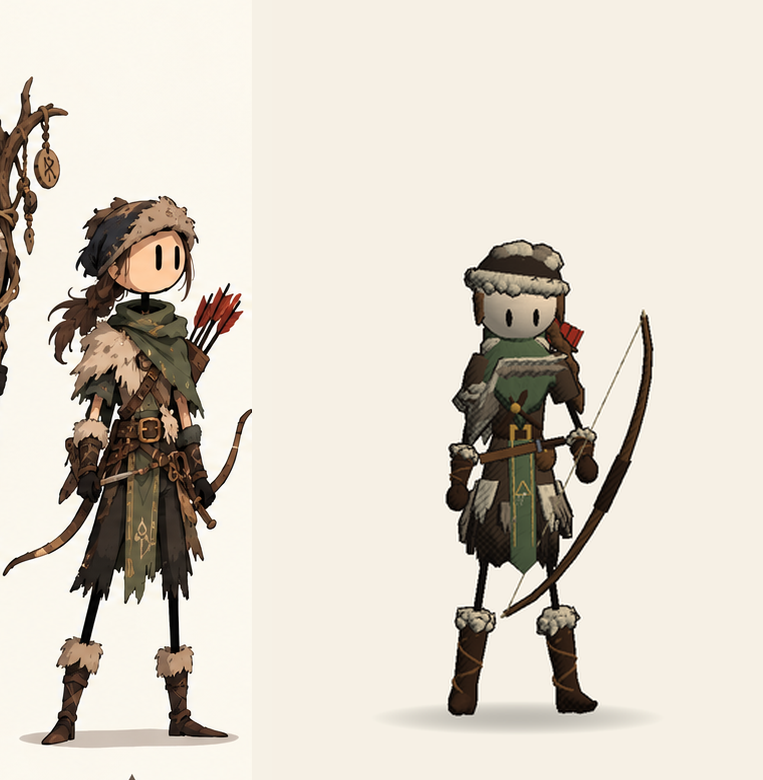
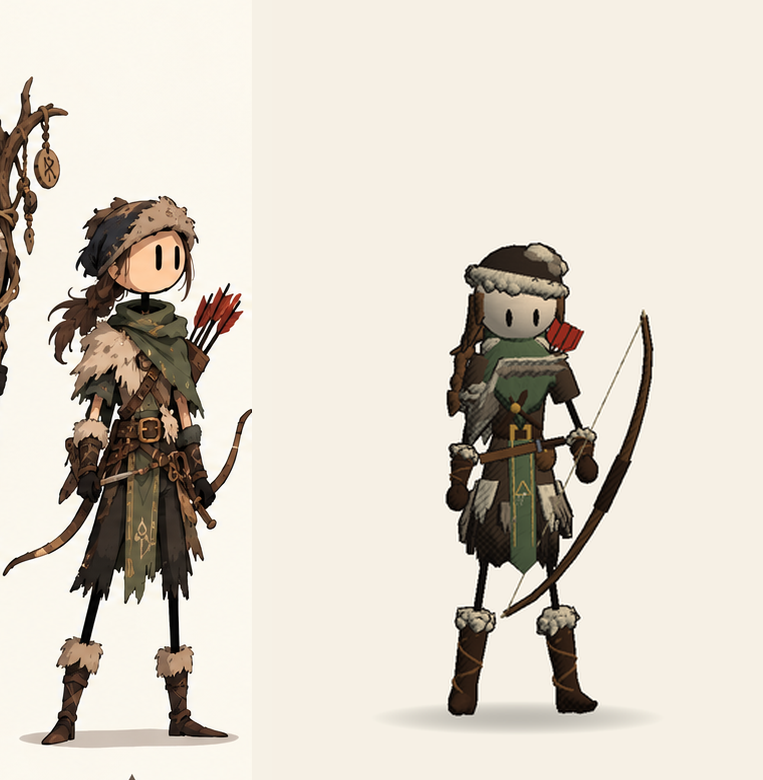
Scout pass 3: askew cap, braid and loose locks over the right shoulder
The fur on the cap gathers on one side so the dark cloth shows, the cap
sits more askew, the low braid swings out over the right shoulder with
loose wavy locks on the same side. CHARACTERS.md records pass 3 and what
pass 4 should tackle.

Claude-Session: https://claude.ai/code/session_01SCdejJ1UF8RUxAkkFhZXGU

Changed region(s): [[0.5727, 0.3077, 0.7837, 0.5538]]

diff --git a/OdinsCoin/Assets/Scripts/Characters/Garments.cs b/OdinsCoin/Assets/Scripts/Characters/Garments.cs
@@ -1061,14 +1061,14 @@ namespace OdinsCoin
             var f = d.fit;
             float r = f.headR, cy = HeroModel.HeadCentre(f), s = d.S;
             float brim = cy + 0.2f * r;
-            var tilt = Quaternion.Euler(-6f, 0f, 8f);
+            var tilt = Quaternion.Euler(-6f, 0f, 12f);
             d.Add(Joints.Head, d.pal.clothDark, MeshData.Dome(Vector3.zero, new Vector3(r * 1.1f, r * 1.05f, r * 1.1f), 16, 6).Transformed(new Vector3(0f, brim, -0.02f * r), tilt, Vector3.one));
             d.Add(Joints.Head, d.pal.fur, CharacterKit.FurRing(Vector3.zero, r * 1.12f, 1f, 0.045f * s, 16, 0.03f * s, d.seed + 81, 0.3f).Transformed(new Vector3(0f, brim + 0.025f * s, -0.02f * r), tilt, Vector3.one));
             // Shaggy fur over the crown, leaving dark cloth showing on one side.
             var rng = new System.Random(d.seed + 82);
             for (int i = 0; i < 10; i++)
             {
-                float a = (float)rng.NextDouble() * Mathf.PI * 1.3f - 0.2f, e = 0.3f + (float)rng.NextDouble() * 0.9f;
+                float a = 0.9f + (float)rng.NextDouble() * Mathf.PI * 1.1f, e = 0.3f + (float)rng.NextDouble() * 0.9f;
                 var p = new Vector3(Mathf.Cos(a) * Mathf.Cos(e), Mathf.Sin(e), Mathf.Sin(a) * Mathf.Cos(e) * 0.6f) * r * 1.08f;
                 d.Add(Joints.Head, i % 3 == 0 ? d.pal.furShadow : d.pal.fur, MeshData.Ellipsoid(p, new Vector3(0.045f, 0.03f, 0.045f) * s, 7, 4).Transformed(new Vector3(0f, brim, -0.02f * r), tilt, Vector3.one));
             }
@@ -1157,14 +1157,18 @@ namespace OdinsCoin
             d.Add(Joints.Head, d.pal.hair, MeshData.Ellipsoid(new Vector3(0f, cy - r * 0.02f, -r * 0.3f), new Vector3(r * 1.02f, r * 0.9f, r * 0.82f), 12, 8));
             foreach (float x in new[] { -1f, 1f })
                 d.Add(Joints.Head, d.pal.hair, CharacterKit.Tuft(new Vector3(x * r * 0.9f, cy + r * 0.2f, r * 0.3f), new Vector3(x * r * 1.02f, cy - r * 0.55f, r * 0.42f), 0.026f * s));
-            var path = new[] { new Vector3(-r * 0.6f, cy - r * 0.55f, -r * 0.75f), new Vector3(-r * 1.05f, cy - r * 1.05f, -r * 0.6f), new Vector3(-r * 1.35f, cy - r * 1.7f, -r * 0.4f), new Vector3(-r * 1.45f, cy - r * 2.3f, -r * 0.3f) };
+            // Loose wavy locks falling to the shoulder on the braid's side.
+            d.Add(Joints.Head, d.pal.hair, CharacterKit.Tuft(new Vector3(r * 0.95f, cy + r * 0.1f, r * 0.05f), new Vector3(r * 1.2f, cy - r * 1.1f, r * 0.1f), 0.03f * s));
+            d.Add(Joints.Head, d.pal.hair, CharacterKit.Tuft(new Vector3(r * 0.9f, cy, -r * 0.3f), new Vector3(r * 1.3f, cy - r * 1.3f, -r * 0.25f), 0.026f * s));
+            // The braid itself, gathered low at the back and swinging out over the right shoulder.
+            var path = new[] { new Vector3(r * 0.6f, cy - r * 0.55f, -r * 0.75f), new Vector3(r * 1.05f, cy - r * 1.05f, -r * 0.6f), new Vector3(r * 1.35f, cy - r * 1.7f, -r * 0.4f), new Vector3(r * 1.45f, cy - r * 2.3f, -r * 0.3f) };
             string bj = d.Swing(Joints.LeftBraid, Joints.Head, path[0], SwingKind.Braid);
             var p0 = path[0];
             for (int i = 0; i < path.Length; i++) path[i] -= p0;
             d.Add(bj, d.pal.hair, CharacterKit.Braid(path, 0.03f * s));
             var end = path[path.Length - 1];
-            d.Add(bj, d.pal.hair, CharacterKit.Tuft(end, end + new Vector3(-0.02f, -0.08f, 0.01f) * s, 0.028f * s));
-            d.Add(bj, d.pal.hair, CharacterKit.Tuft(path[1], path[1] + new Vector3(-0.07f, -0.05f, 0f) * s, 0.015f * s));
+            d.Add(bj, d.pal.hair, CharacterKit.Tuft(end, end + new Vector3(0.02f, -0.08f, 0.01f) * s, 0.028f * s));
+            d.Add(bj, d.pal.hair, CharacterKit.Tuft(path[1], path[1] + new Vector3(0.07f, -0.05f, 0f) * s, 0.015f * s));
         }
 
         /// <summary>One thick braid over the right shoulder, down the front to the waist.</summary>

diff --git a/OdinsCoin/CHARACTERS.md b/OdinsCoin/CHARACTERS.md
@@ -38,14 +38,19 @@ Alt bygges i kode (ingen modellfiler trengs). `tools/preview/render.sh` tegner e
     - **Spydvakt:** bredt spydblad og vimpel med merke på begge sider. Spydet står på bakken, skjoldet er større, og skjerfet ligger på skrå.
     - **Seer:** hetta har spiss og hengende fjær, skuldrene er smalere, og runebrikkene er store og henger i lange snorer.
     - **Speider:** bare armer med armbeskyttere, grønn skulderkappe med spiss foran, pels på én skulder og koggeret på riktig side.
-  - Kjente forskjeller til runde 3:
-    - **Alle:** figurene er fortsatt litt for bredde og klokkeformede i overkroppen. I bildet er overkroppen smal med lag som synes.
-    - **Jarl:** remmer i kryss og ringer på beltet, runer på sverdet og gullkant på skjoldet.
-    - **Raider:** flere lommer på beltet og ei synlig hånd som holder skaftet.
-    - **Navigatør:** pelsen på skuldrene synes for lite, og kartet trenger revne kanter.
-    - **Spydvakt:** splitt foran i lærjakken og mørke bukser under.
-    - **Seer:** lysere grå-blå striper i kappa, og flere kjeder og beinsmykker.
-    - **Speider:** pelslua skal sitte mer på skrå, og løs hårflette skal henge bak.
+  - Runde 3 (ferdig):
+    - **Alle:** overkroppene er smalere enn hodet, som i bildet.
+    - **Jarl:** remmer i kryss med ring, en krone som sitter som en hjelm, koksgrå kåpe med bred gullkant, og et smalere sverd med blodrenne og runer.
+    - **Raider:** større lommer på hoftene.
+    - **Navigatør:** et større, fillete kart med kystlinje, øy og seilrute.
+    - **Spydvakt:** splitt foran i lærvesten, mørke bukser og knehøye støvler.
+    - **Seer:** blekere filler i fjærkappa.
+    - **Speider:** lua sitter på skrå med mørkt stoff synlig, flettet svinger over høyre skulder, og løse lokker henger på samme side.
+  - Til runde 4:
+    - Ansiktene er litt mindre enn i bildet. Hodet kan bli større, eller hodeplaggene kan sitte høyere.
+    - Hendene som holder våpen bør synes bedre.
+    - Pelsen på Navigatørens skulder er for lite synlig.
+    - Buen til Speideren skal henge bak, ikke holdes foran.
 - [x] **9. Bevegelse i plaggene:** (se [docs/motion.png](docs/motion.png)) kapper, skjørt, fletter, pels og vimpler svinger og henger etter når figuren går, snur og hugger (enkel fysikk med fjærer).
 - [ ] **10. Tegneserie-look på alt:** tusj-kanter på skipet, øyene, trærne, husene og havet, skravur med blyant eller tusj i skyggene, og papirkorn over hele bildet.
   - [x] Skravur i skyggene: shaderen `OdinsCoin/InkToon` (i `Resources/Shaders`) gir myk tegnet belysning med kalde skygger, enkle blyantstreker på skyggesiden og kryss-skravur i de mørkeste delene. Ansiktene får ingen skravur, så de holder seg rene. Den brukes på alt som ikke er blankt (havet beholder Lit). `InkStyle.cs` har samme matte, og forhåndsvisningen bruker den.
